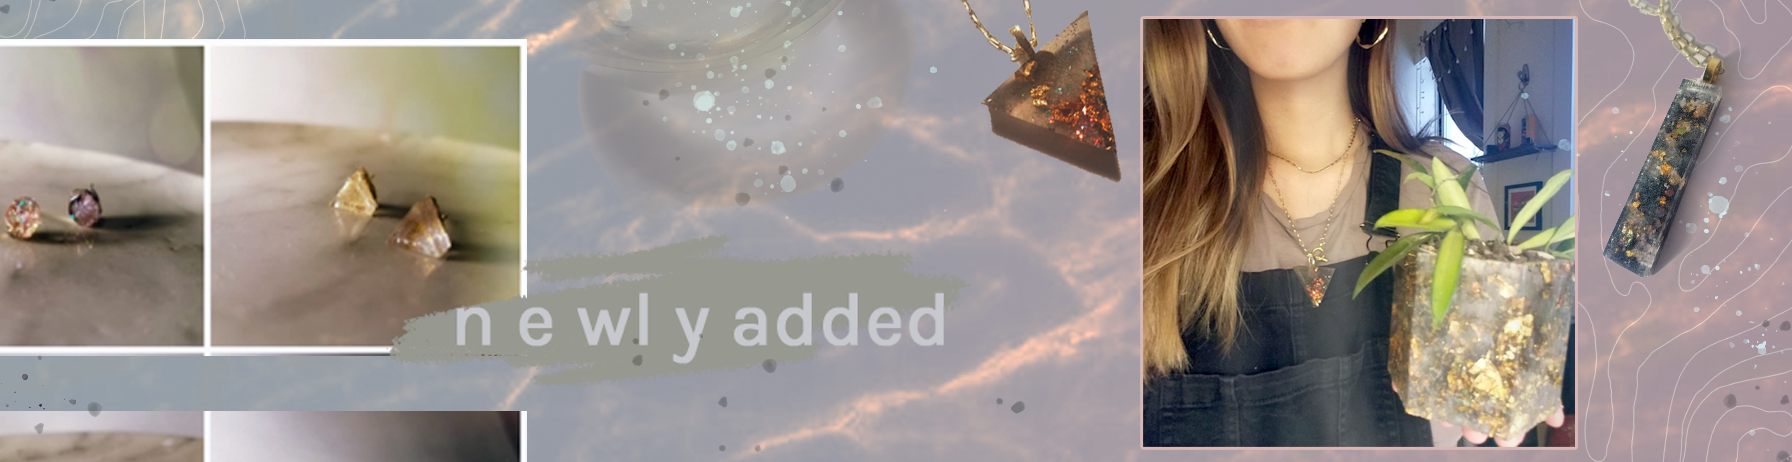
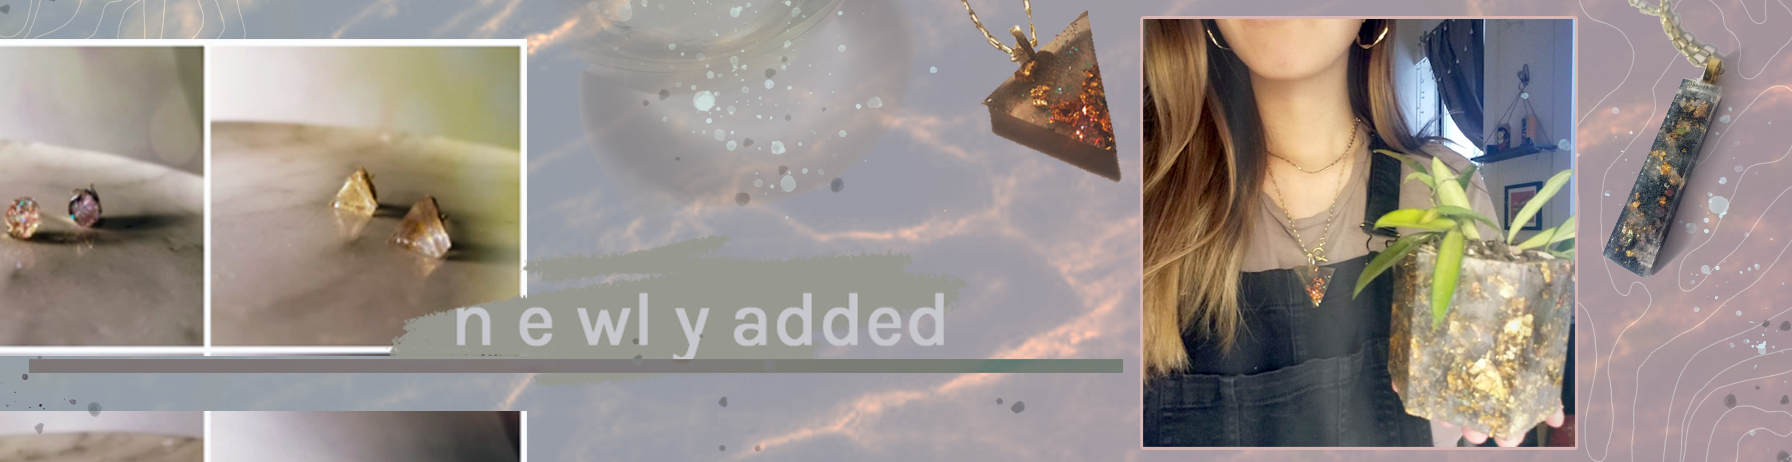
dafasdfsadf

Changed region(s): [[0.0, 0.7576, 0.625, 0.8182]]

diff --git a/style.css b/style.css
@@ -22,6 +22,21 @@ body {
   
 }
 
+.search {
+  display: flex;
+  flex-direction: row;
+  width: 100%;
+  height: 100%;
+  padding: 10px 10px 10px 10px;
+  margin-top: 100px;
+  background-color: white;
+  background-repeat: no-repeat;
+  background-size: 100%;
+  justify-content: space-around;
+  font-size: 14px;
+  
+  }
+
 
 .mainbody { 
   display: block;
@@ -48,15 +63,15 @@ overflow: -moz-hidden-unscrollable;
   
   font-size: 14px;
 
-background-color: white;
+background-color:white;
   width: 100%;
   display: block;
   justify-content: center; 
   position: -webkit-sticky;
   position: sticky;
-  top: 50px;
+  top: 90px;
 align-items: safecenter;
-  padding-top: 40px;
+  padding-top: 50px;
   padding-bottom: 10px;
   margin-bottom: 20px;
   z-index: 3;
@@ -75,9 +90,9 @@ align-items: safecenter;
     justify-content: center; 
     position: -webkit-sticky;
     position: sticky;
-    top: 20px;
+    top: 0px;
   align-items: safecenter;
-    padding-top: 10px;
+    padding-top: 50px;
     padding-bottom: 10px;
     margin-bottom: 0px;
    margin-left: -40px; 
@@ -564,7 +579,7 @@ padding: auto;
 .shopbody {
   display: block;
 
-padding: 20px 20px 20px 20px;
+padding: 80px 20px 20px 20px;
 
 
 }
@@ -914,12 +929,13 @@ float: right;
 
   #slideshow2 { 
 
-height: 300px;
+height: 250px;
 position: relative;
 width: 100%;
 margin-left: auto;
 margin-right: auto;
-margin-top: 50px;
+margin-top: 90px;
+
 background-image: white;
   }
 
@@ -997,6 +1013,33 @@ background-image: white;
                 background-attachment: inherit;
                 
                 }
+
+                .shopsplash2 { 
+                  position: absolute;
+                  display: flex;
+                  justify-content: space-between;
+            
+                  left: 50%;
+                  transform: translateX(-50%);
+                      padding: auto;
+                      background-size: 100%;
+                      background-repeat: no-repeat;
+            
+                  margin-top: 10px;
+                      align-items: flex-end;
+                      padding-left: 100px;
+                      padding-right: 100px;
+                      padding-bottom: 10px;
+                    width: 1020px;
+                    height: 300px;
+                      background-color: #d0dac786;
+                      background-position:  0% 100%;
+                      background-size: 100%;
+                      color: #FFFFFF;
+                      background-image: url(billboard6.png);
+                      background-attachment: inherit;
+                      
+                      }
 
 
               
@@ -1806,7 +1849,13 @@ padding-right: 20px;
 }
 
 
+.shipping { 
 
+
+  width: 100%;
+  margin: auto;
+  padding: auto;
+}
 
 
 
@@ -1814,7 +1863,8 @@ padding-right: 20px;
 
 
   width: 100%;
-  margin-left: -10px;
+  margin: auto;
+  padding: auto;
 }
 
 
@@ -2219,6 +2269,28 @@ border: none;
                               
                               }
 
+                              .shopsplash2 { 
+                                position: absolute;
+                                left: 50%;
+                                transform: translateX(-50%);
+                                    padding: auto;
+                                    background-size: 100%;
+                                    background-repeat: no-repeat;
+                          
+                                margin-top: 10px;
+                                    align-items: center;
+                                    padding-left: 100px;
+                                    padding-right: 100px;
+                                  width: 510px;
+                                  height: 250px;
+                                    background-color: white;
+                                    background-position:  40% 0%;
+                                    background-size: 80%;
+                                    color: #FFFFFF;
+                                    background-image: url(billboard6.png);
+                                    background-attachment: inherit;
+                                    
+                                    }
   .shopwrap { 
 width: 100%;
 
@@ -2227,6 +2299,12 @@ width: 100%;
     .comingsoon{
       width: 100%;
     }
+
+
+
+    
+    
+
 
     .h6 { 
 

diff --git a/navigation.html b/navigation.html
@@ -21,9 +21,27 @@
       <li><a href="./contact.html">contact</a></li>
       <li><a href="./shipping.html">shipping</a></li>
       <li><a href="./faq.html">faq</a></li>
+
+
+
+      
     </ul>
 
-    <script type="text/javascript">
+<div class="search">SEARCHBAR</div>
+
+
+
+    
+
+
+
+
+
+  </header>
+
+
+
+  <script type="text/javascript">
     const currentLocation = location.href;
     const menuItem = document.querySelectorAll('li a');
     const menuLength = menuItem.length
@@ -34,8 +52,3 @@
     }
 
 </script>
-
-  </header>
-
-
-

diff --git a/shopindex.html b/shopindex.html
@@ -40,6 +40,7 @@
           <div id="slideshow2">
 
             <div class="shopsplash"></div>
+            <div class="shopsplash2"></div>
 
       
           
@@ -134,6 +135,17 @@
         <script type="text/javascript" src="shopjs.js"></script>
 
 
+
+        <script>
+          setInterval(function() { 
+     $('#slideshow2 > div:first')
+       .fadeOut(4000)
+       .next()
+       .fadeIn(4000)
+       .end()
+       .appendTo('#slideshow2');
+   },  3500);
+   </script>
 
 
 

diff --git a/script.js b/script.js
@@ -68,8 +68,8 @@ $(function(){
   });
 
 
-
   
+
 
 
 $(function() {
